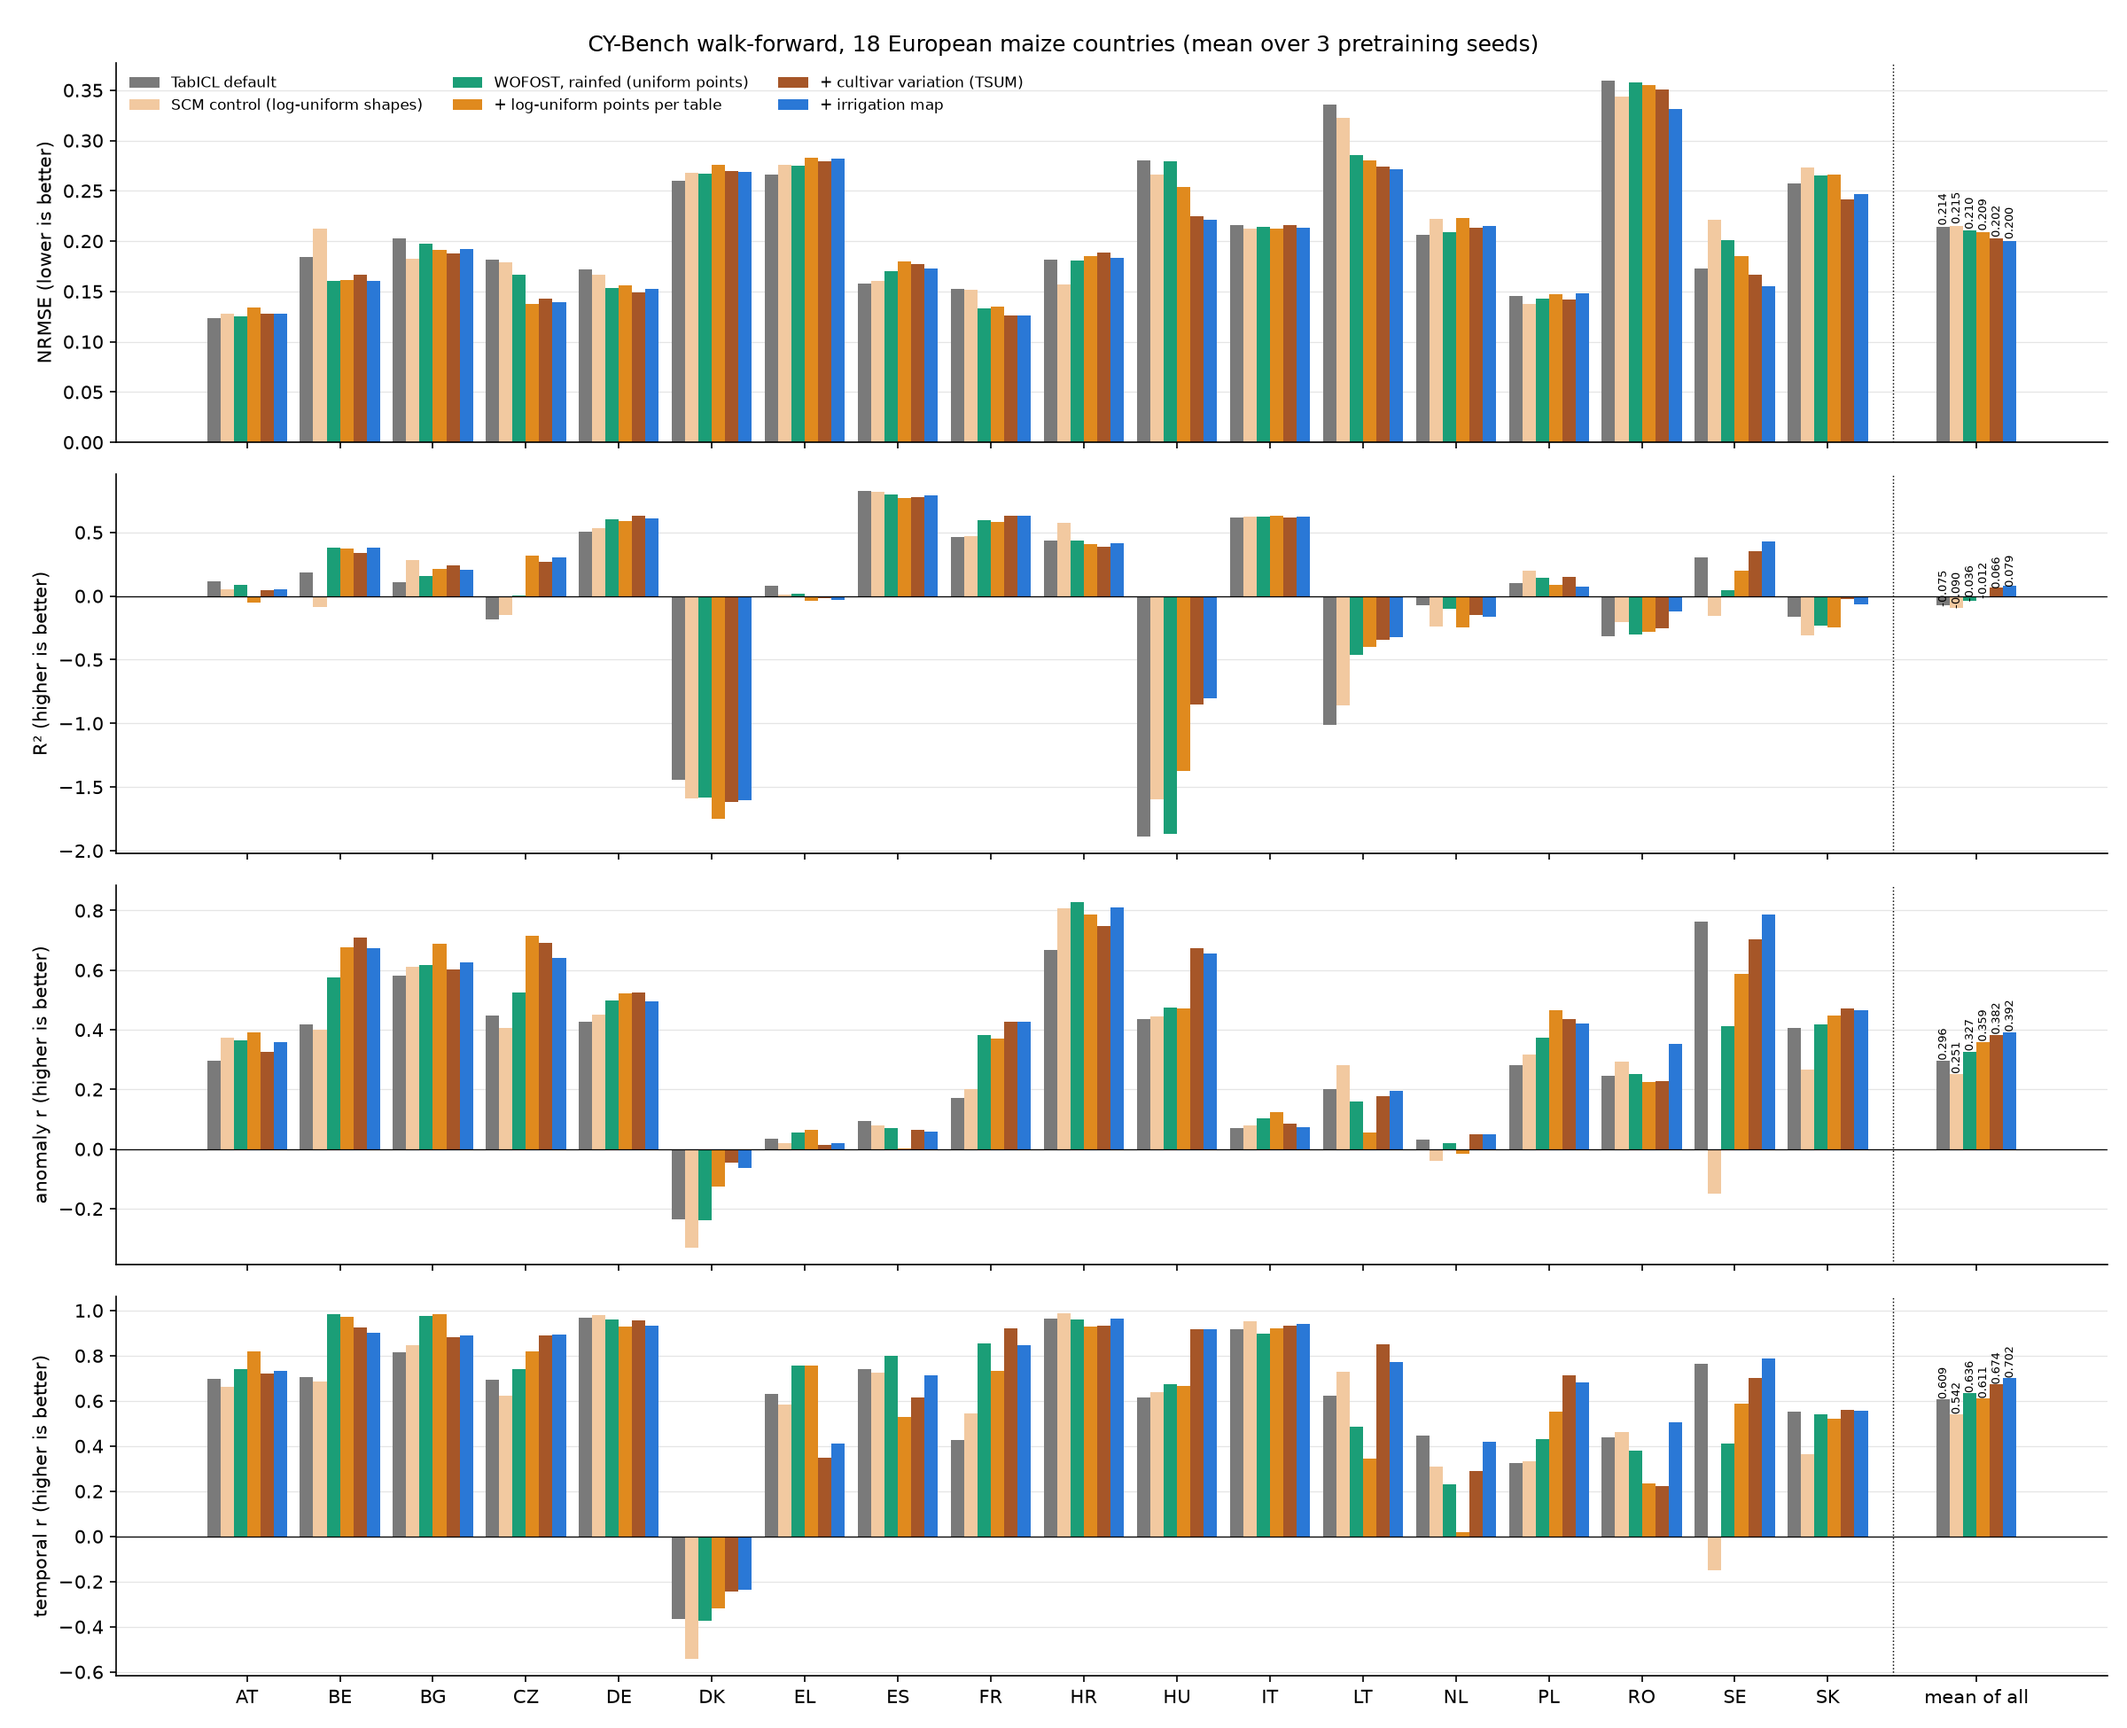
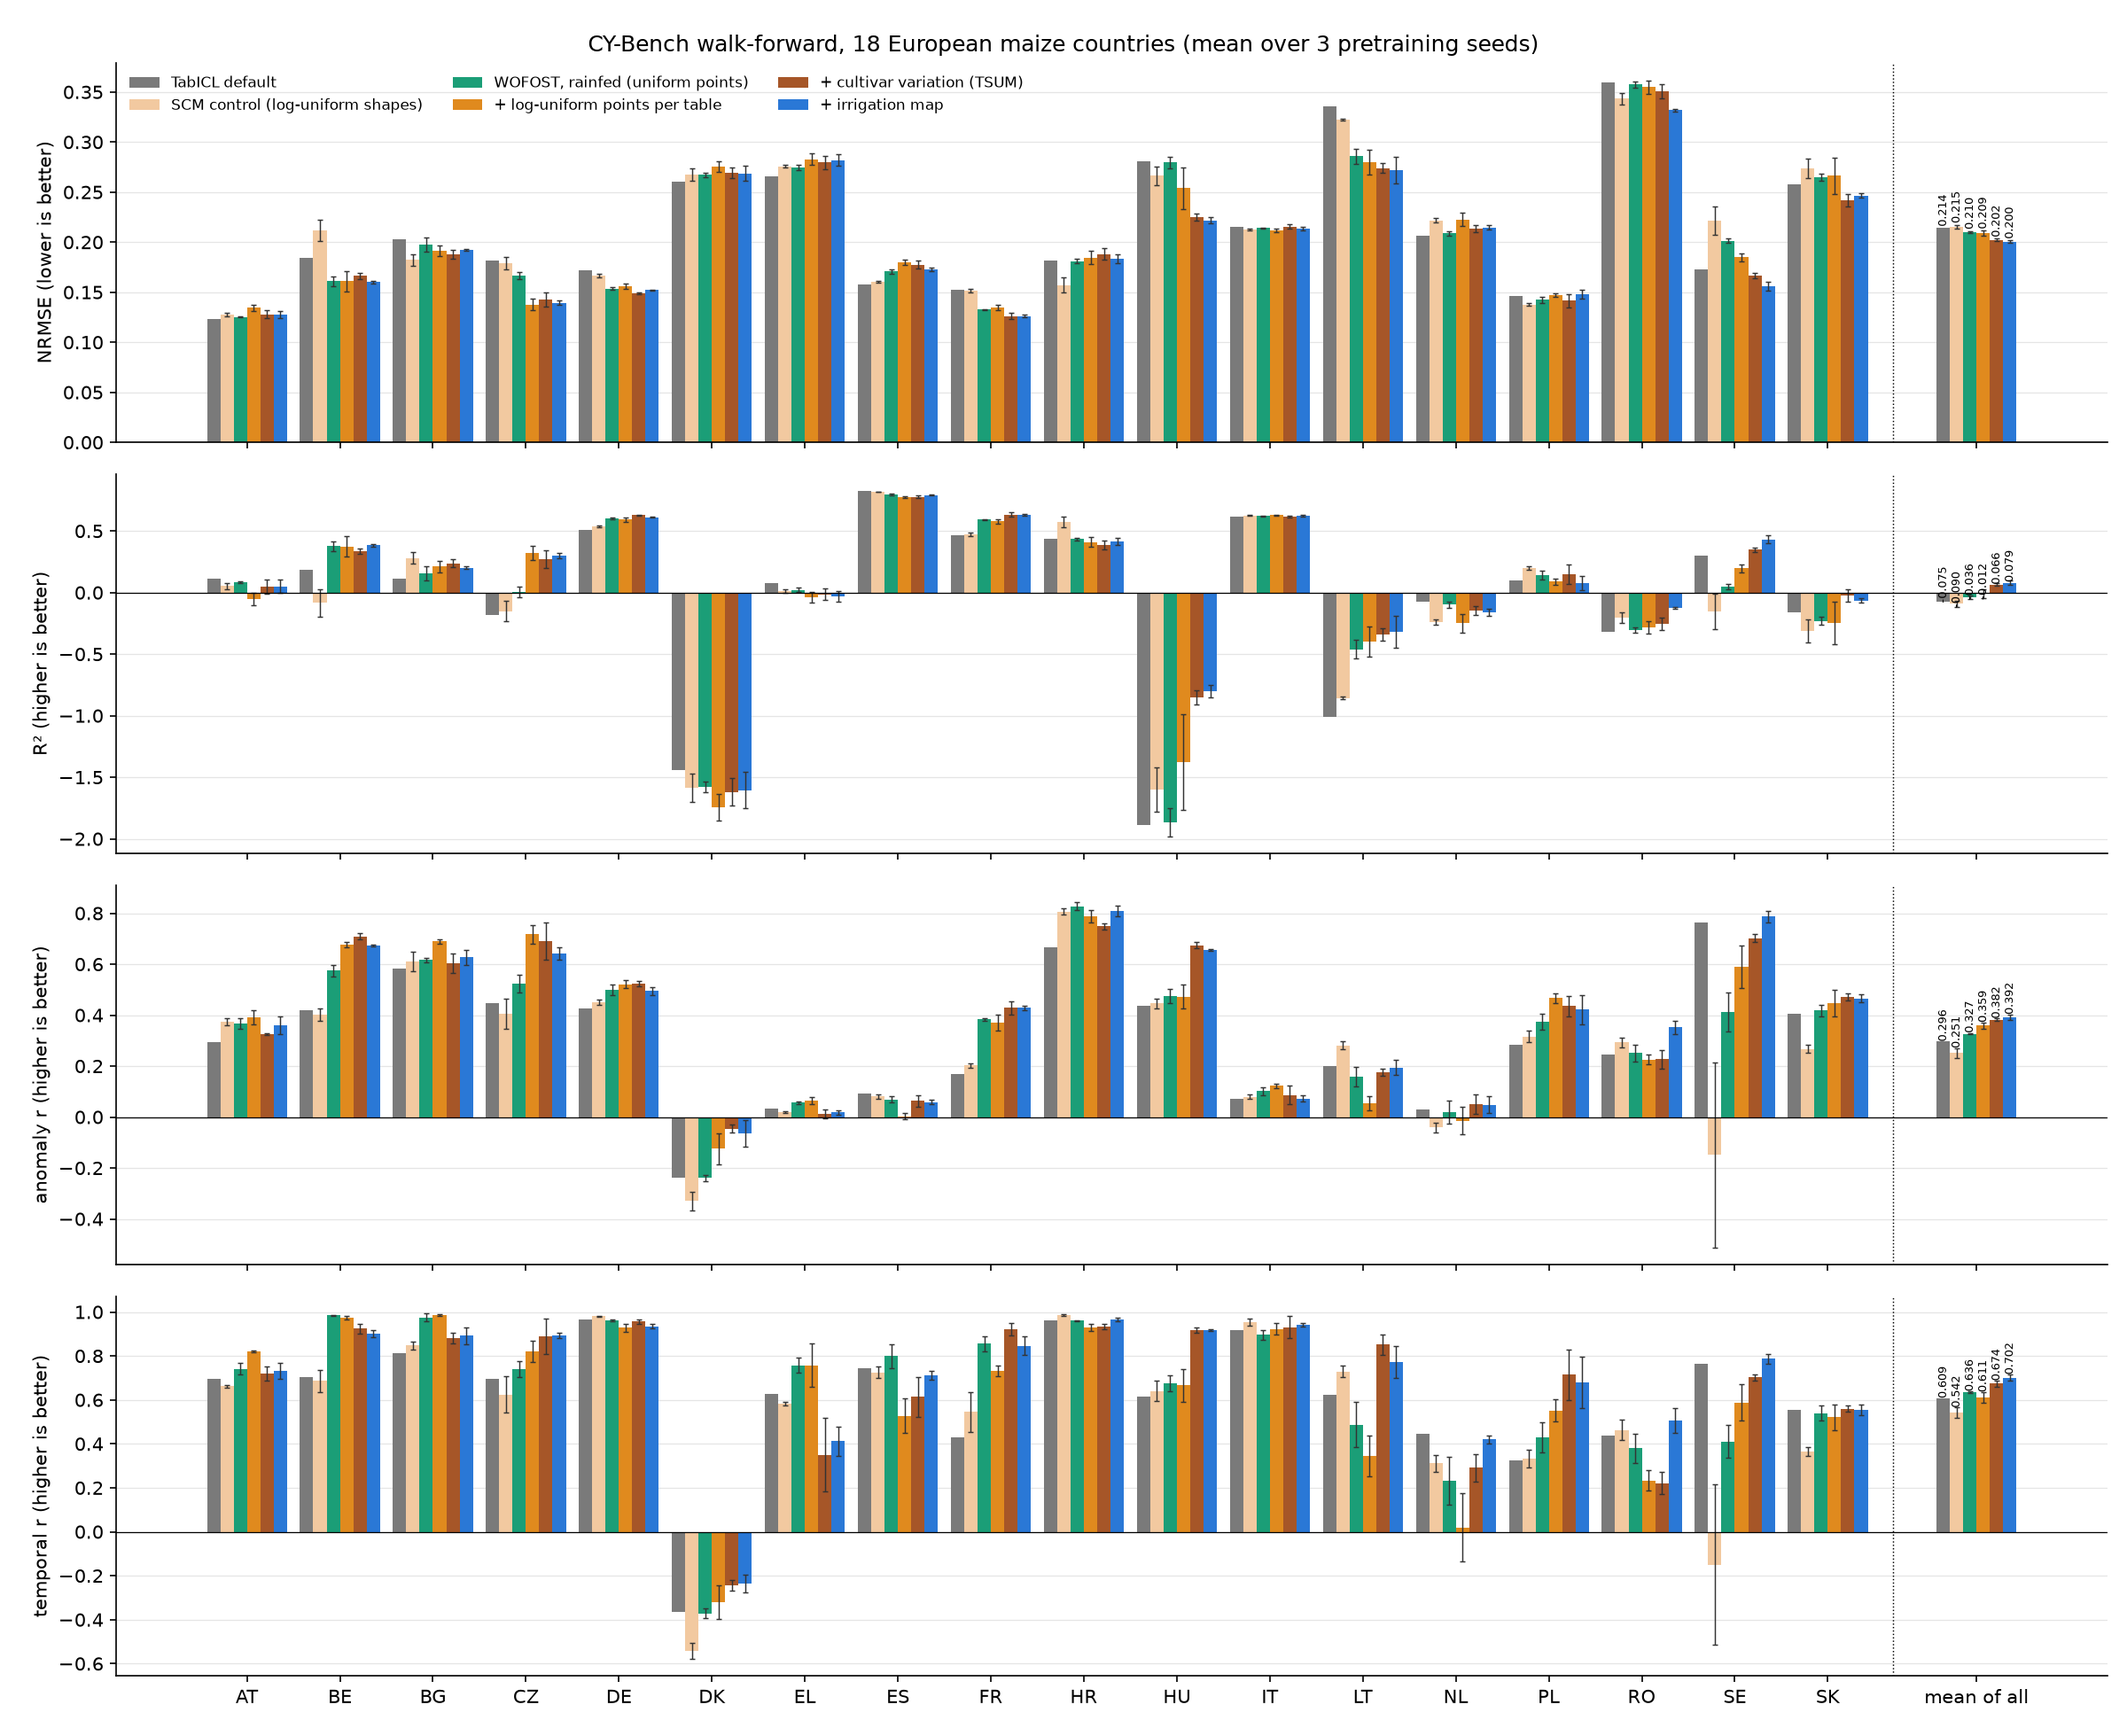
Bar plots: optional error bars (std over the pretraining seeds); on in the main comparison

diff --git a/analysis/bars.py b/analysis/bars.py
@@ -46,14 +46,28 @@ def values(runs: pd.DataFrame, experiment: str, setting: str, seed="mean") -> pd
     return out
 
 
+def seed_std(runs: pd.DataFrame, experiment: str, setting: str):
+    """Standard deviation over the pretraining seeds (sample std, ddof=1): per country, and of the mean over the countries (the mean of each seed's
+    country values first, then the std over the seeds). None for a run without seeds (the default TabICL) or with one seed."""
+    d = runs[(runs.experiment == experiment) & (runs.setting == setting)]
+    if d.seed.nunique() < 2:
+        return None
+    per_country = d.groupby("country")[list(METRICS)].std(ddof=1)
+    of_mean = d.groupby("seed")[list(METRICS)].mean().std(ddof=1)
+    return per_country, of_mean
+
+
 def draw(entries: list, path: str, title: str, weighted: bool = False, figsize=(16, 7.8), title_size=None,
-         metrics=("nrmse", "anomaly_r")) -> pd.DataFrame:
-    """entries: [{"label", "color", "values"}]; one row of bars per metric (two by default). Returns the mean (and weighted mean) of each run."""
+         metrics=("nrmse", "anomaly_r"), errorbars: bool = False) -> pd.DataFrame:
+    """entries: [{"label", "color", "values", "std" (optional: seed_std)}]; one row of bars per metric (two by default). Returns the mean (and
+    weighted mean) of each run. errorbars=True: a line of +-1 std over the pretraining seeds on each bar of a run with seeds (not in the weighted group)."""
     countries = sorted(entries[0]["values"].index)
     summary = []
     for e in entries:
         v = e["values"].loc[countries]
         row = {"run": e["label"], **{f"{m}_mean": v[m].mean() for m in metrics}}
+        if errorbars and e.get("std") is not None:
+            row.update({f"{m}_mean_seed_std": e["std"][1][m] for m in metrics})
         if weighted:
             row.update({f"{m}_weighted": np.average(v[m], weights=v.n_region_years) for m in metrics})
         summary.append(row)
@@ -73,9 +87,14 @@ def draw(entries: list, path: str, title: str, weighted: bool = False, figsize=(
                 v.append(summary.loc[e["label"], f"{metric}_weighted"])
             pos = x + (i - (n - 1) / 2) * w
             ax.bar(pos, v, w, color=e["color"], label=e["label"])
-            for p, val in zip(pos[-n_groups:], v[-n_groups:]):  # the numbers on the mean group(s)
+            err = np.zeros(len(v))
+            if errorbars and e.get("std") is not None:
+                err[:len(countries)] = e["std"][0].loc[countries, metric].to_numpy()
+                err[len(countries)] = e["std"][1][metric]
+                ax.errorbar(pos, v, yerr=err, fmt="none", ecolor="#333333", elinewidth=0.7, capsize=1.5, capthick=0.7)
+            for p, val, er in zip(pos[-n_groups:], v[-n_groups:], err[-n_groups:]):  # the numbers on the mean group(s)
                 off = offset if not weighted else offset * (1 if val >= 0 else -2.5)
-                ax.text(p, val + off, f"{val:.3f}", ha="center", fontsize=5.5 if weighted else 6, rotation=90)
+                ax.text(p, val + off + (er if val >= 0 else -er), f"{val:.3f}", ha="center", fontsize=5.5 if weighted else 6, rotation=90)
         ax.axvline(len(countries) - 0.3, color="k", lw=0.7, ls=":")
         ax.axhline(0, color="k", lw=0.6)
         ax.set_ylabel(ylabel)

diff --git a/analysis/make_plots.py b/analysis/make_plots.py
@@ -2,7 +2,7 @@
 
     uv run python -m analysis.make_plots [experiment ...]        # experiments/<id>/plots.yaml -> experiments/<id>/figures/
 
-A plots.yaml is a list of plots: {file, title, seed (mean | 0 | ...), metrics (optional: two or more of nrmse, anomaly_r, r2, temporal_r, spatial_r), weighted (optional), figsize (optional), title_size (optional),
+A plots.yaml is a list of plots: {file, title, seed (mean | 0 | ...), metrics (optional: two or more of nrmse, anomaly_r, r2, temporal_r, spatial_r), weighted (optional), errorbars (optional: +-1 std over the seeds; needs seed: mean), figsize (optional), title_size (optional),
 runs: [name | {use: name, label: ...} | {label, experiment, setting, color}]}. Names are in analysis/runs.yaml. Next to each figure a CSV with the
 mean over the countries (and weighted mean) of every run is written.
 """
@@ -12,7 +12,7 @@ import sys
 
 import yaml
 
-from analysis.bars import draw, load_runs, values
+from analysis.bars import draw, load_runs, seed_std, values
 
 ROOT = os.path.dirname(os.path.dirname(os.path.abspath(__file__)))
 
@@ -29,11 +29,12 @@ def main(only=()):
             for r in plot["runs"]:
                 r = dict(named[r]) if isinstance(r, str) else {**named.get(r.get("use"), {}), **{k: v for k, v in r.items() if k != "use"}}
                 entries.append({"label": r["label"], "color": r["color"],
-                                "values": values(runs, r["experiment"], r["setting"], plot.get("seed", "mean"))})
+                                "values": values(runs, r["experiment"], r["setting"], plot.get("seed", "mean")),
+                                "std": seed_std(runs, r["experiment"], r["setting"]) if plot.get("errorbars") else None})
             out = f"{ROOT}/experiments/{path}/figures/{plot['file']}"
             summary = draw(entries, out, plot["title"], weighted=plot.get("weighted", False),
                            figsize=tuple(plot.get("figsize", (16, 7.8))), title_size=plot.get("title_size"),
-                           metrics=tuple(plot.get("metrics", ("nrmse", "anomaly_r"))))
+                           metrics=tuple(plot.get("metrics", ("nrmse", "anomaly_r"))), errorbars=bool(plot.get("errorbars")))
             summary.round(4).to_csv(out.rsplit(".", 1)[0] + ".csv")
             print(f"{path}/figures/{plot['file']}: {len(entries)} runs")
 
